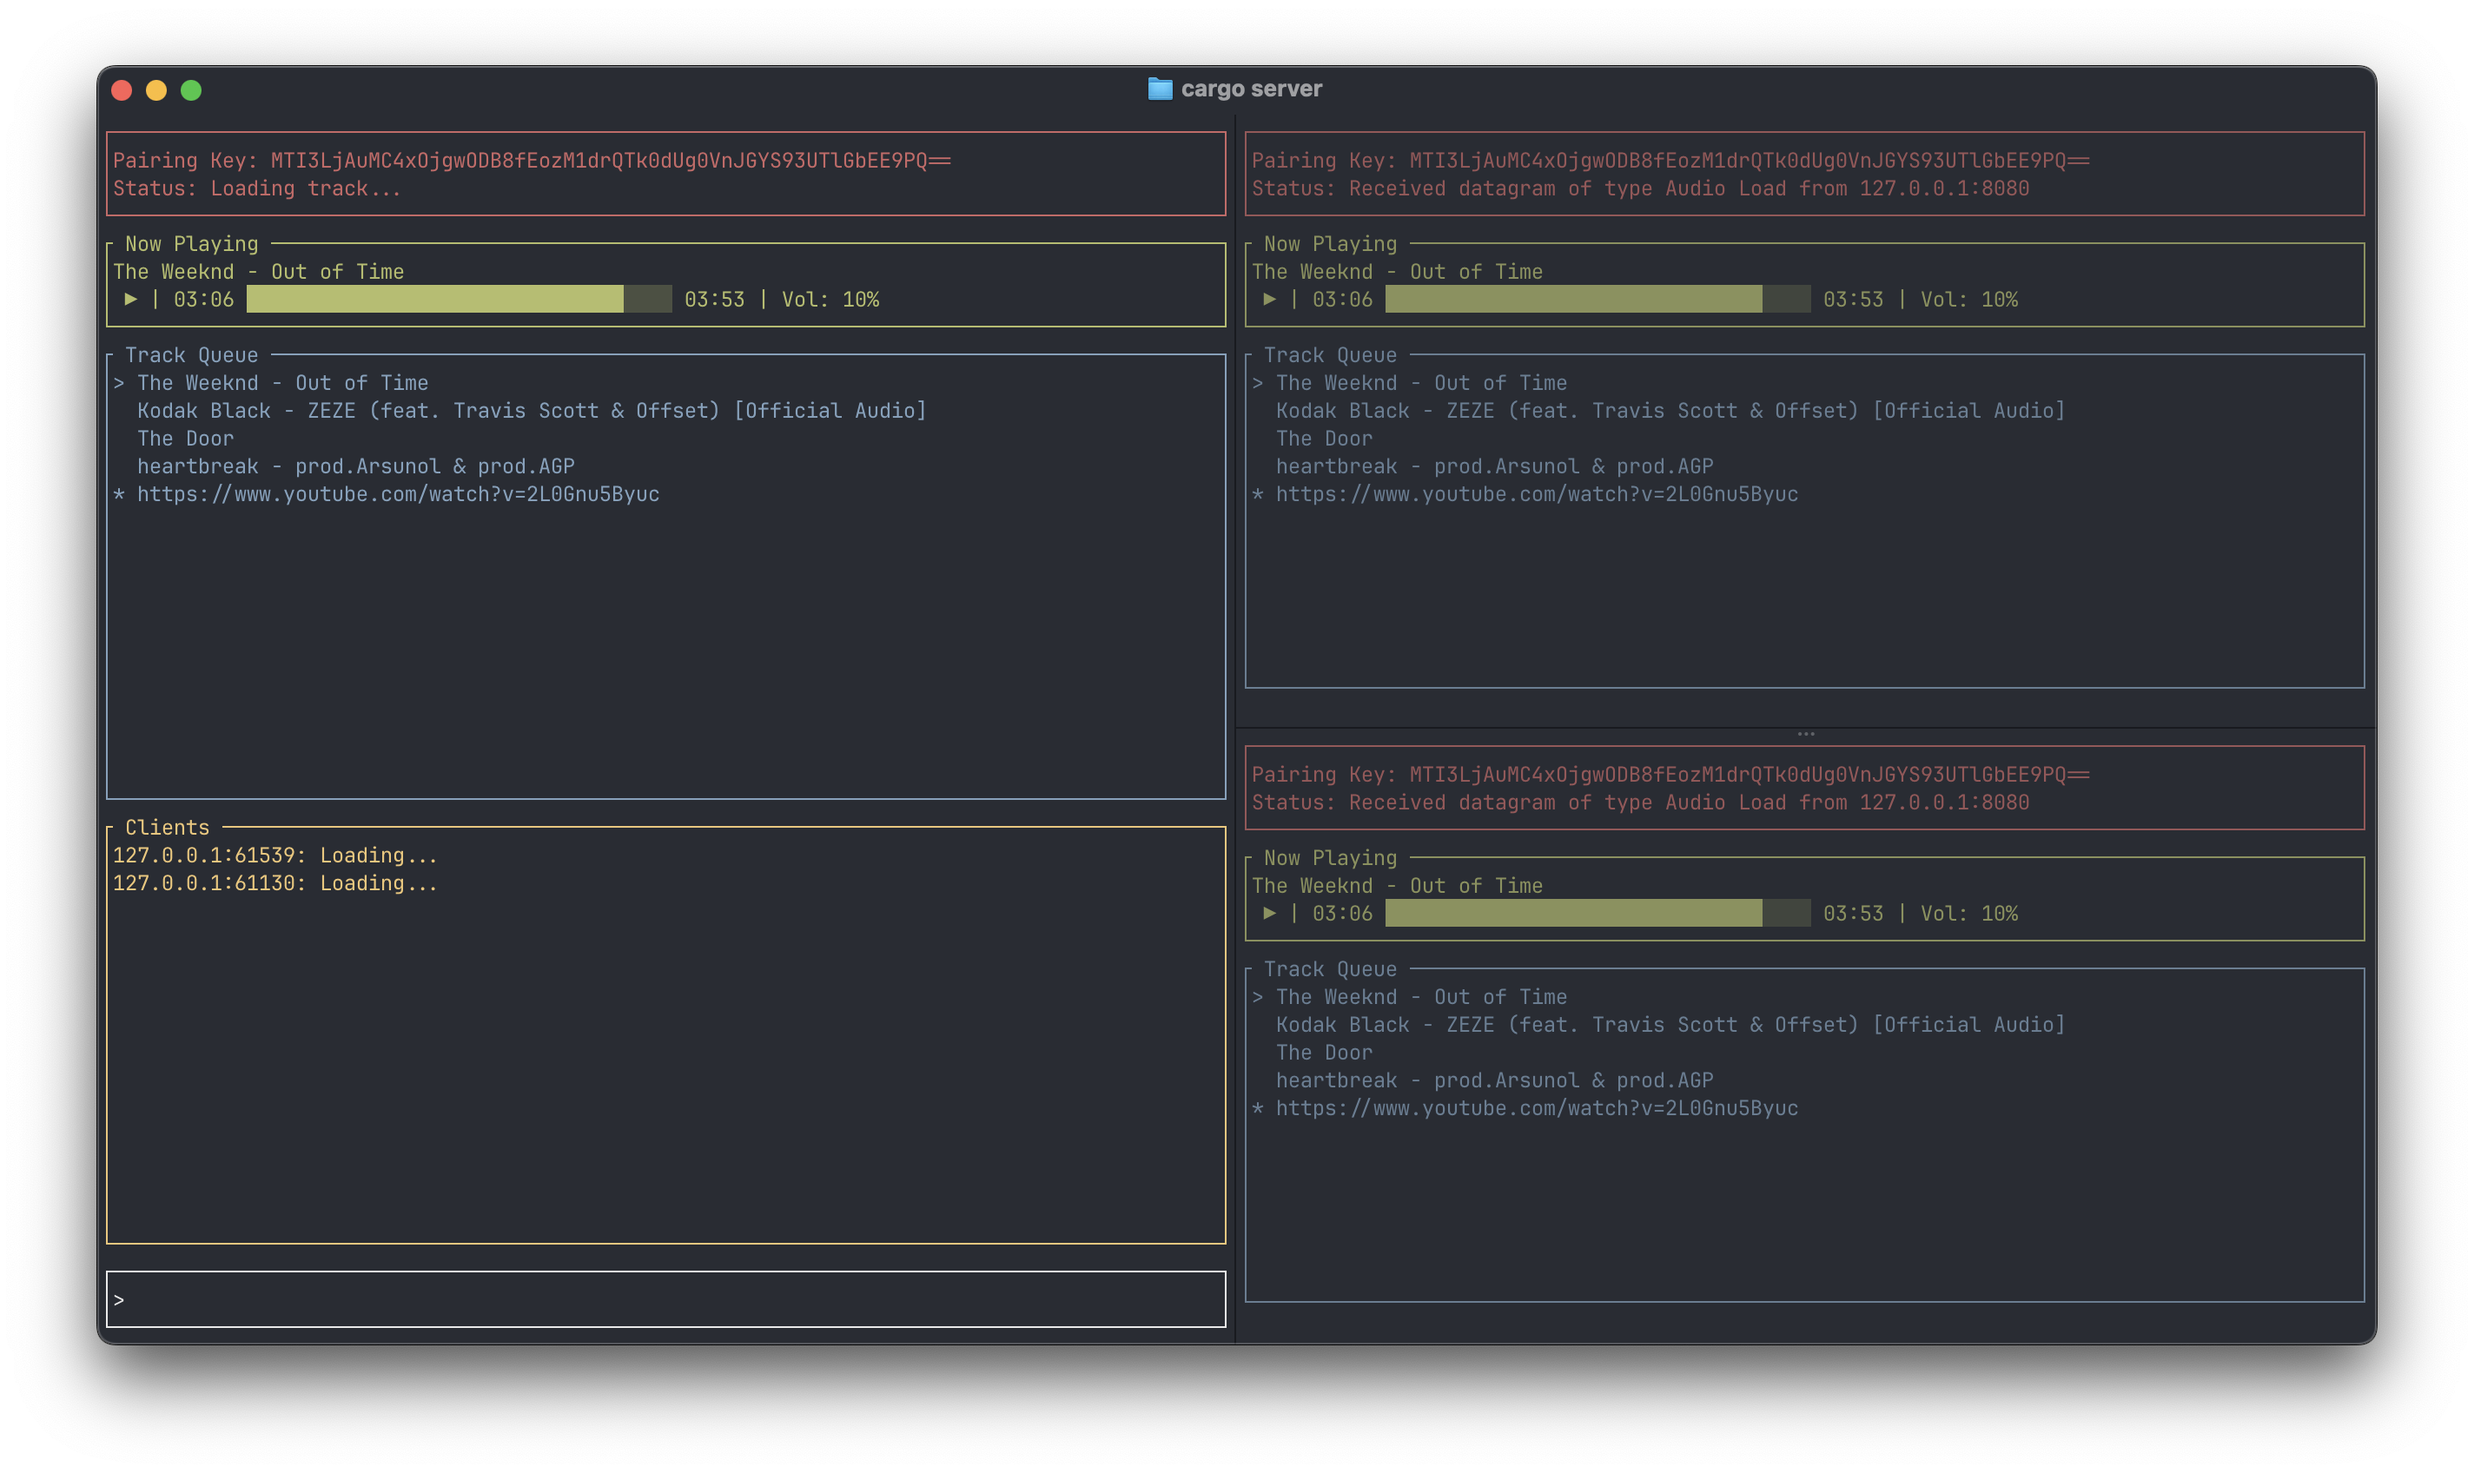
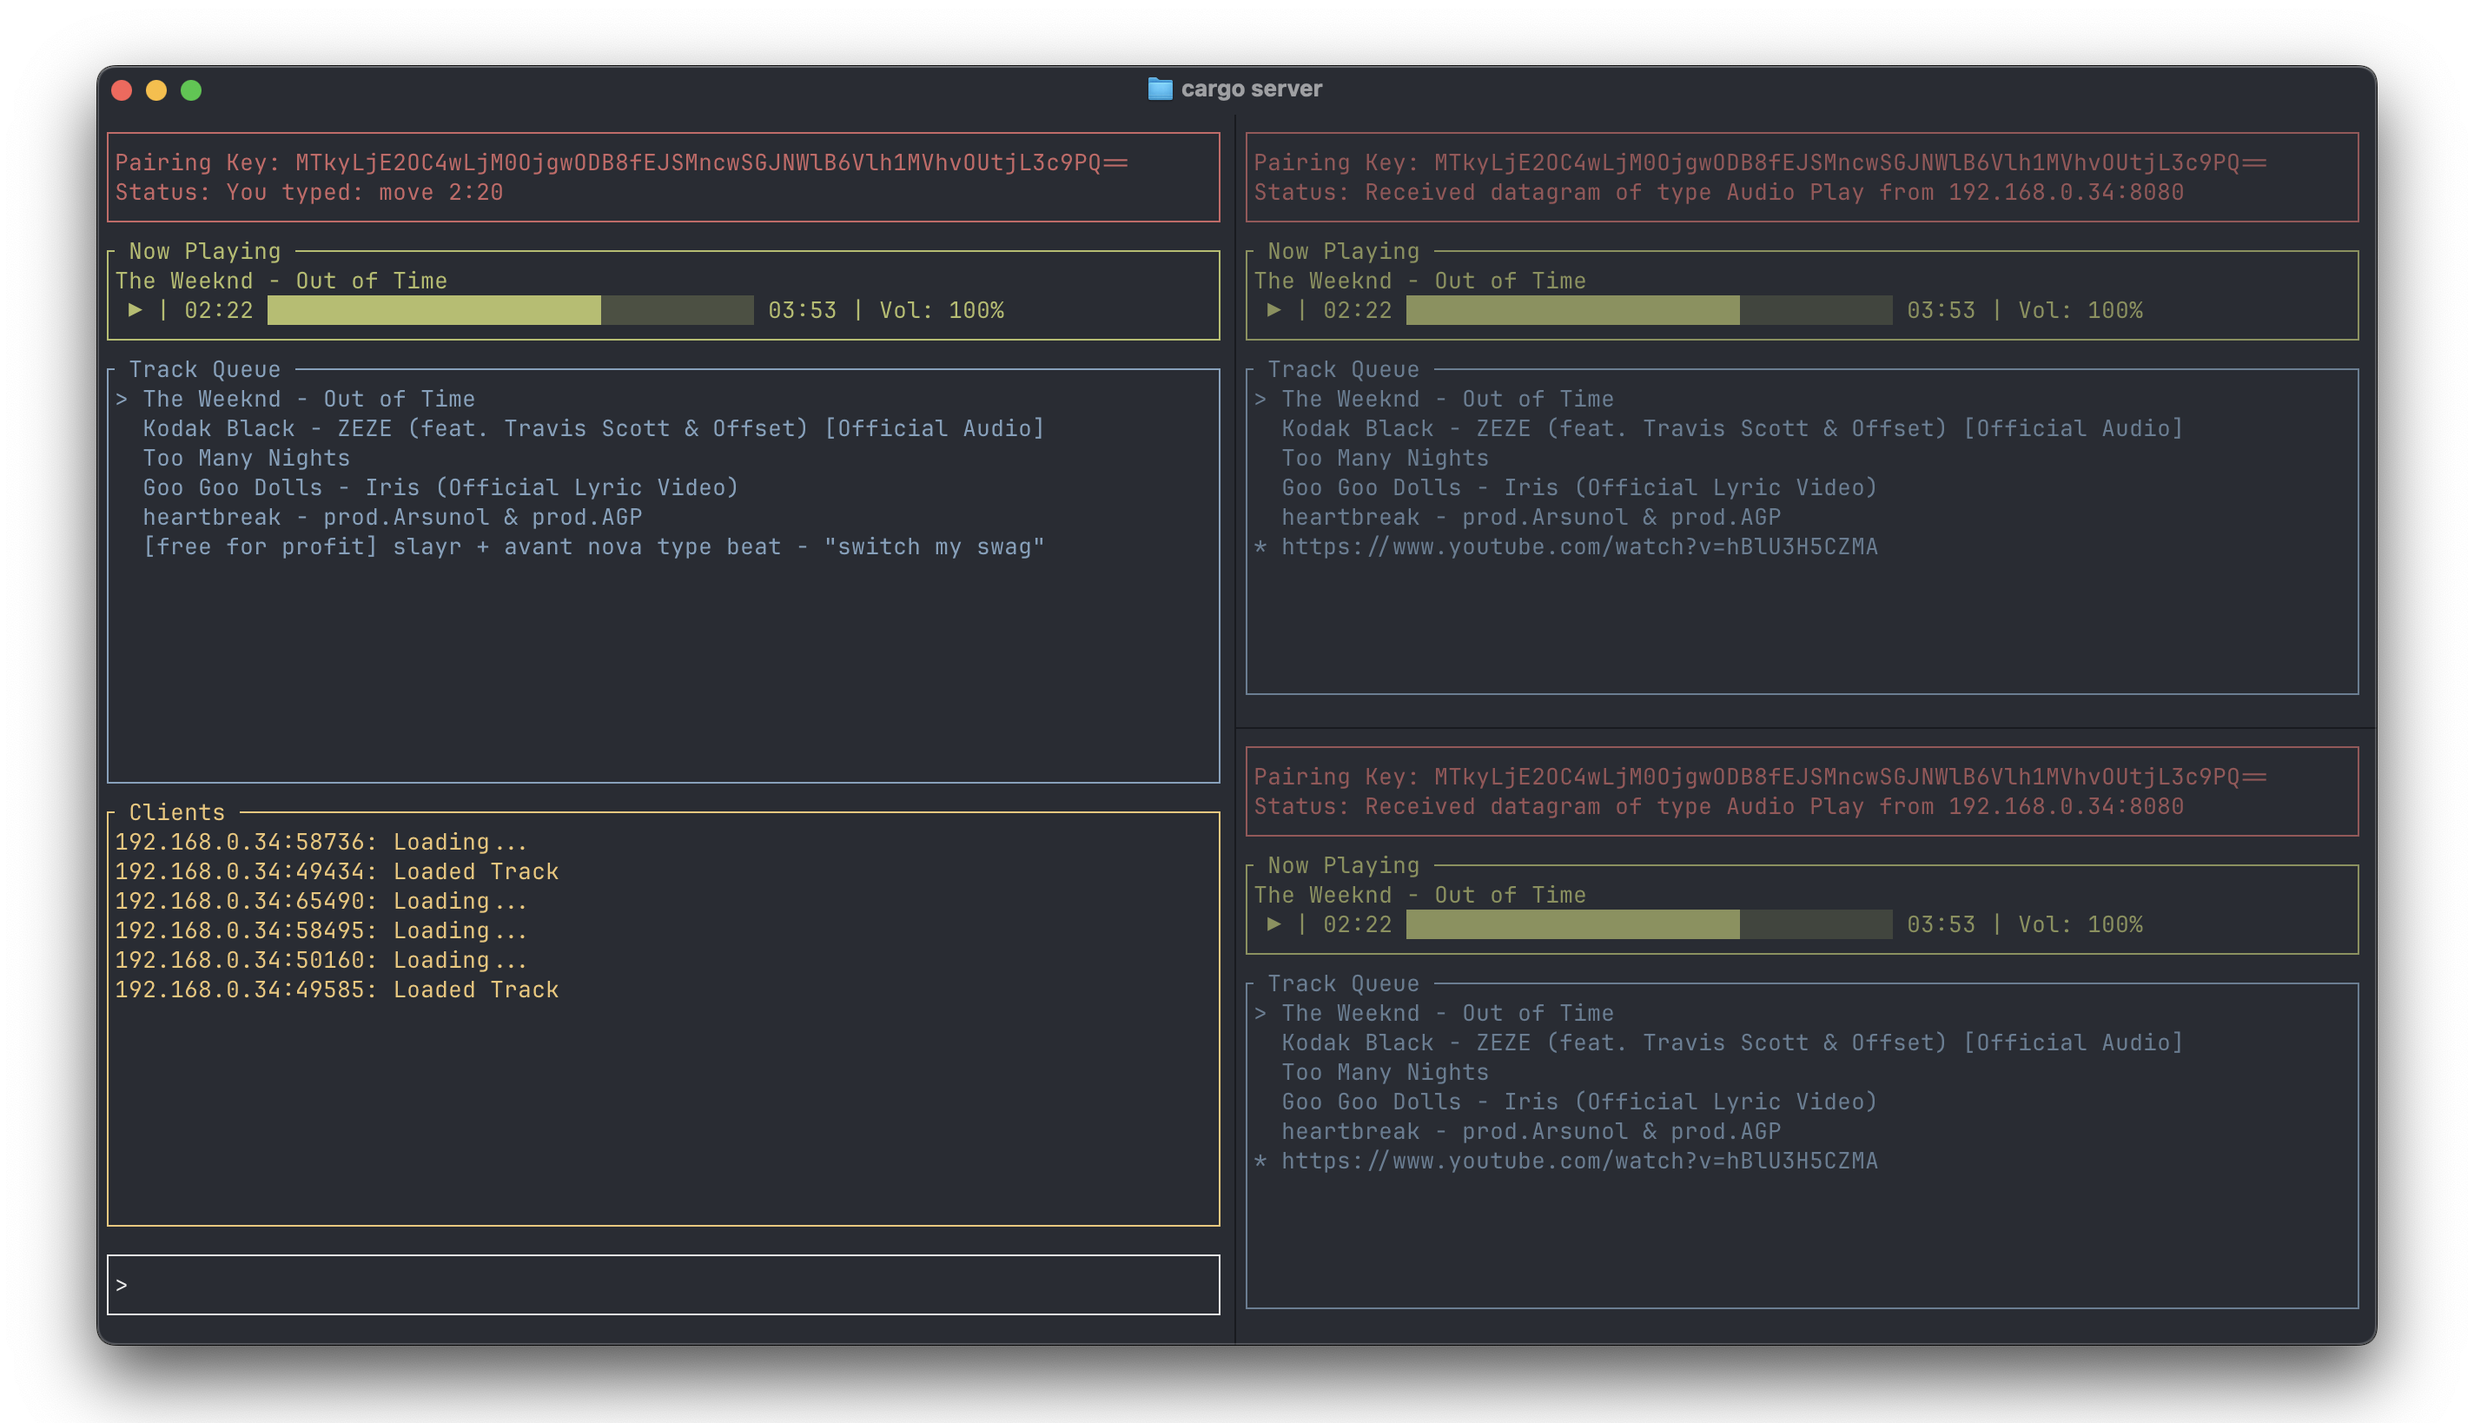
Finish readme

diff --git a/README.md b/README.md
@@ -11,7 +11,12 @@ This project aims to reduce jitter by syncing at a lower level, getting closer t
 - Async Rust (Tokio) with background task decoupling for downloading (does not block the TUI).
 - Ratatui terminal UI with live client and queue status.
 
-![Picture of a terminal UI. Includes Status, Now Playing, Track Queue, Clients, and Input information, see Terminal UI section.](./assets/tui.png)
+<figure>
+  <img src="./assets/tui.png" alt="Picture of a terminal UI. Includes Status, Now Playing, Track Queue, Clients, and Input information, see Terminal UI section.">
+  <figcaption align="center">A server connected to 6 clients, 2 of which are on the same device.</figcaption>
+</figure>
+
+
 
 
 # How to use
@@ -19,9 +24,10 @@ This project aims to reduce jitter by syncing at a lower level, getting closer t
 ## Dependencies
 - The following dependencies are necessary
     - Rust (1.85+)
-    - ffmpeg
-    - yt-dlp
-- You must being logged into YouTube in Chrome (or similar browser), due to CDN restrictions. When running, the program will ask to access the necessary cookies. If you use a browser other than chrome, change the 
+    - ffmpeg ```brew install ffmpeg``` or ```winget install yt-dlp```
+    - yt-dlp ```brew install yt-dlp``` or ```winget install -e --id Gyan.FFmpeg```
+- If a download failes with `403`, run `yt-dlp -U` to update yt-dlp. Youtube's extraction requirements change frequently, but yt-dlp is on top of adapting to them.
+- You must be logged into YouTube in Chrome (or similar browser), due to CDN restrictions. When running, the program will ask to access the necessary cookies. If you use a browser other than chrome, change the BROWSER constant in `src/constants.rs` to your prefered browser.
 
 ## Initialization
 - Spin up a server
@@ -54,10 +60,11 @@ This project was inpired a longstanding want for a simple music syncing tool. I'
 
 # How it works
 ## Playback
-The basic flow for playback syncing is as follows: 
-- The server sends a `load <URL>` command. This tells the client: "independently download the audio content from the given URL, and report when done". The client reports when the file is downloaded, and adds it to its queue.
-- The server sends a `swap` command. This tells the client: "swap in the file at the top of the queue and buffer it to 00:00. Be ready for my play signal".
-- The server sends a `play` command. This signal comes with a specific playback timestamp (like 01:11) and a unix timestamp. This tells the client: "wait until `unix timestamp`, then play the current audio at `timestamp`".
+- One instruction orchestrates independent client tasks, each running its own async event loop with background-decoupled downloads.
+- Playback flow:
+    - The server sends a `load <URL>` command. This tells the client: "independently download the audio content from the given URL, and report when done". The client reports when the file is downloaded, and adds it to its queue.
+    - The server sends a `swap` command. This tells the client: "swap in the file at the top of the queue and buffer it to 00:00. Be ready for my play signal".
+    - The server sends a `play` command. This signal comes with a specific playback timestamp (like 01:11) and a unix timestamp. This tells the client: "wait until `unix timestamp`, then play the current audio at `timestamp`".
 - Instructions like volume, and pause are actioned immediately.
 
 ## Protocol
@@ -90,3 +97,4 @@ The basic flow for playback syncing is as follows:
 - Packet loss: Most protocols built on top of UDP feature their own packet delivery guarantees. With the exception of acks for handshake and loading, this does not. I reasoned that adding an ack for play and pause would add unnecessary complexity, as a simple one way signal of (server) "play" becomes (server) "play" -> (client) "ok" -> (server) "now actually play", and what if one of these packets gets dropped? Instead, if a client does fail to action a signal, it can just be repeated with another play/pause command, which is idempotent.
 - Crashing: Though uncommon, I've sometimes seen this program crash due to some audio encoding issue, which sometimes happens if a misreported audio length causes the decoder to panic because it runs out of samples. This is actually a [known issue](https://github.com/RustAudio/rodio/issues/496) with rodio, and I'm working on putting in some workarounds.
 - Restrictions: Most public WiFis isolate clients so that they can't talk to each other. Thus, this can only be run over a LAN without client/AP isolation enabled. So, most home/private WiFis should work, but public and enterprise WiFis may not.
+- Speed: Loading is honestly extremely slow: it can take up to 45 seconds even for smaller files. I'm looking into ways to speed this up, but for now I don't anticipate it being too much of an issue, as multiple tracks can be loaded simultaneously, and the next track can be loaded while the current track is playing. The yt-dlp download is actually pretty fast, I think the conversion process could be sped up.
